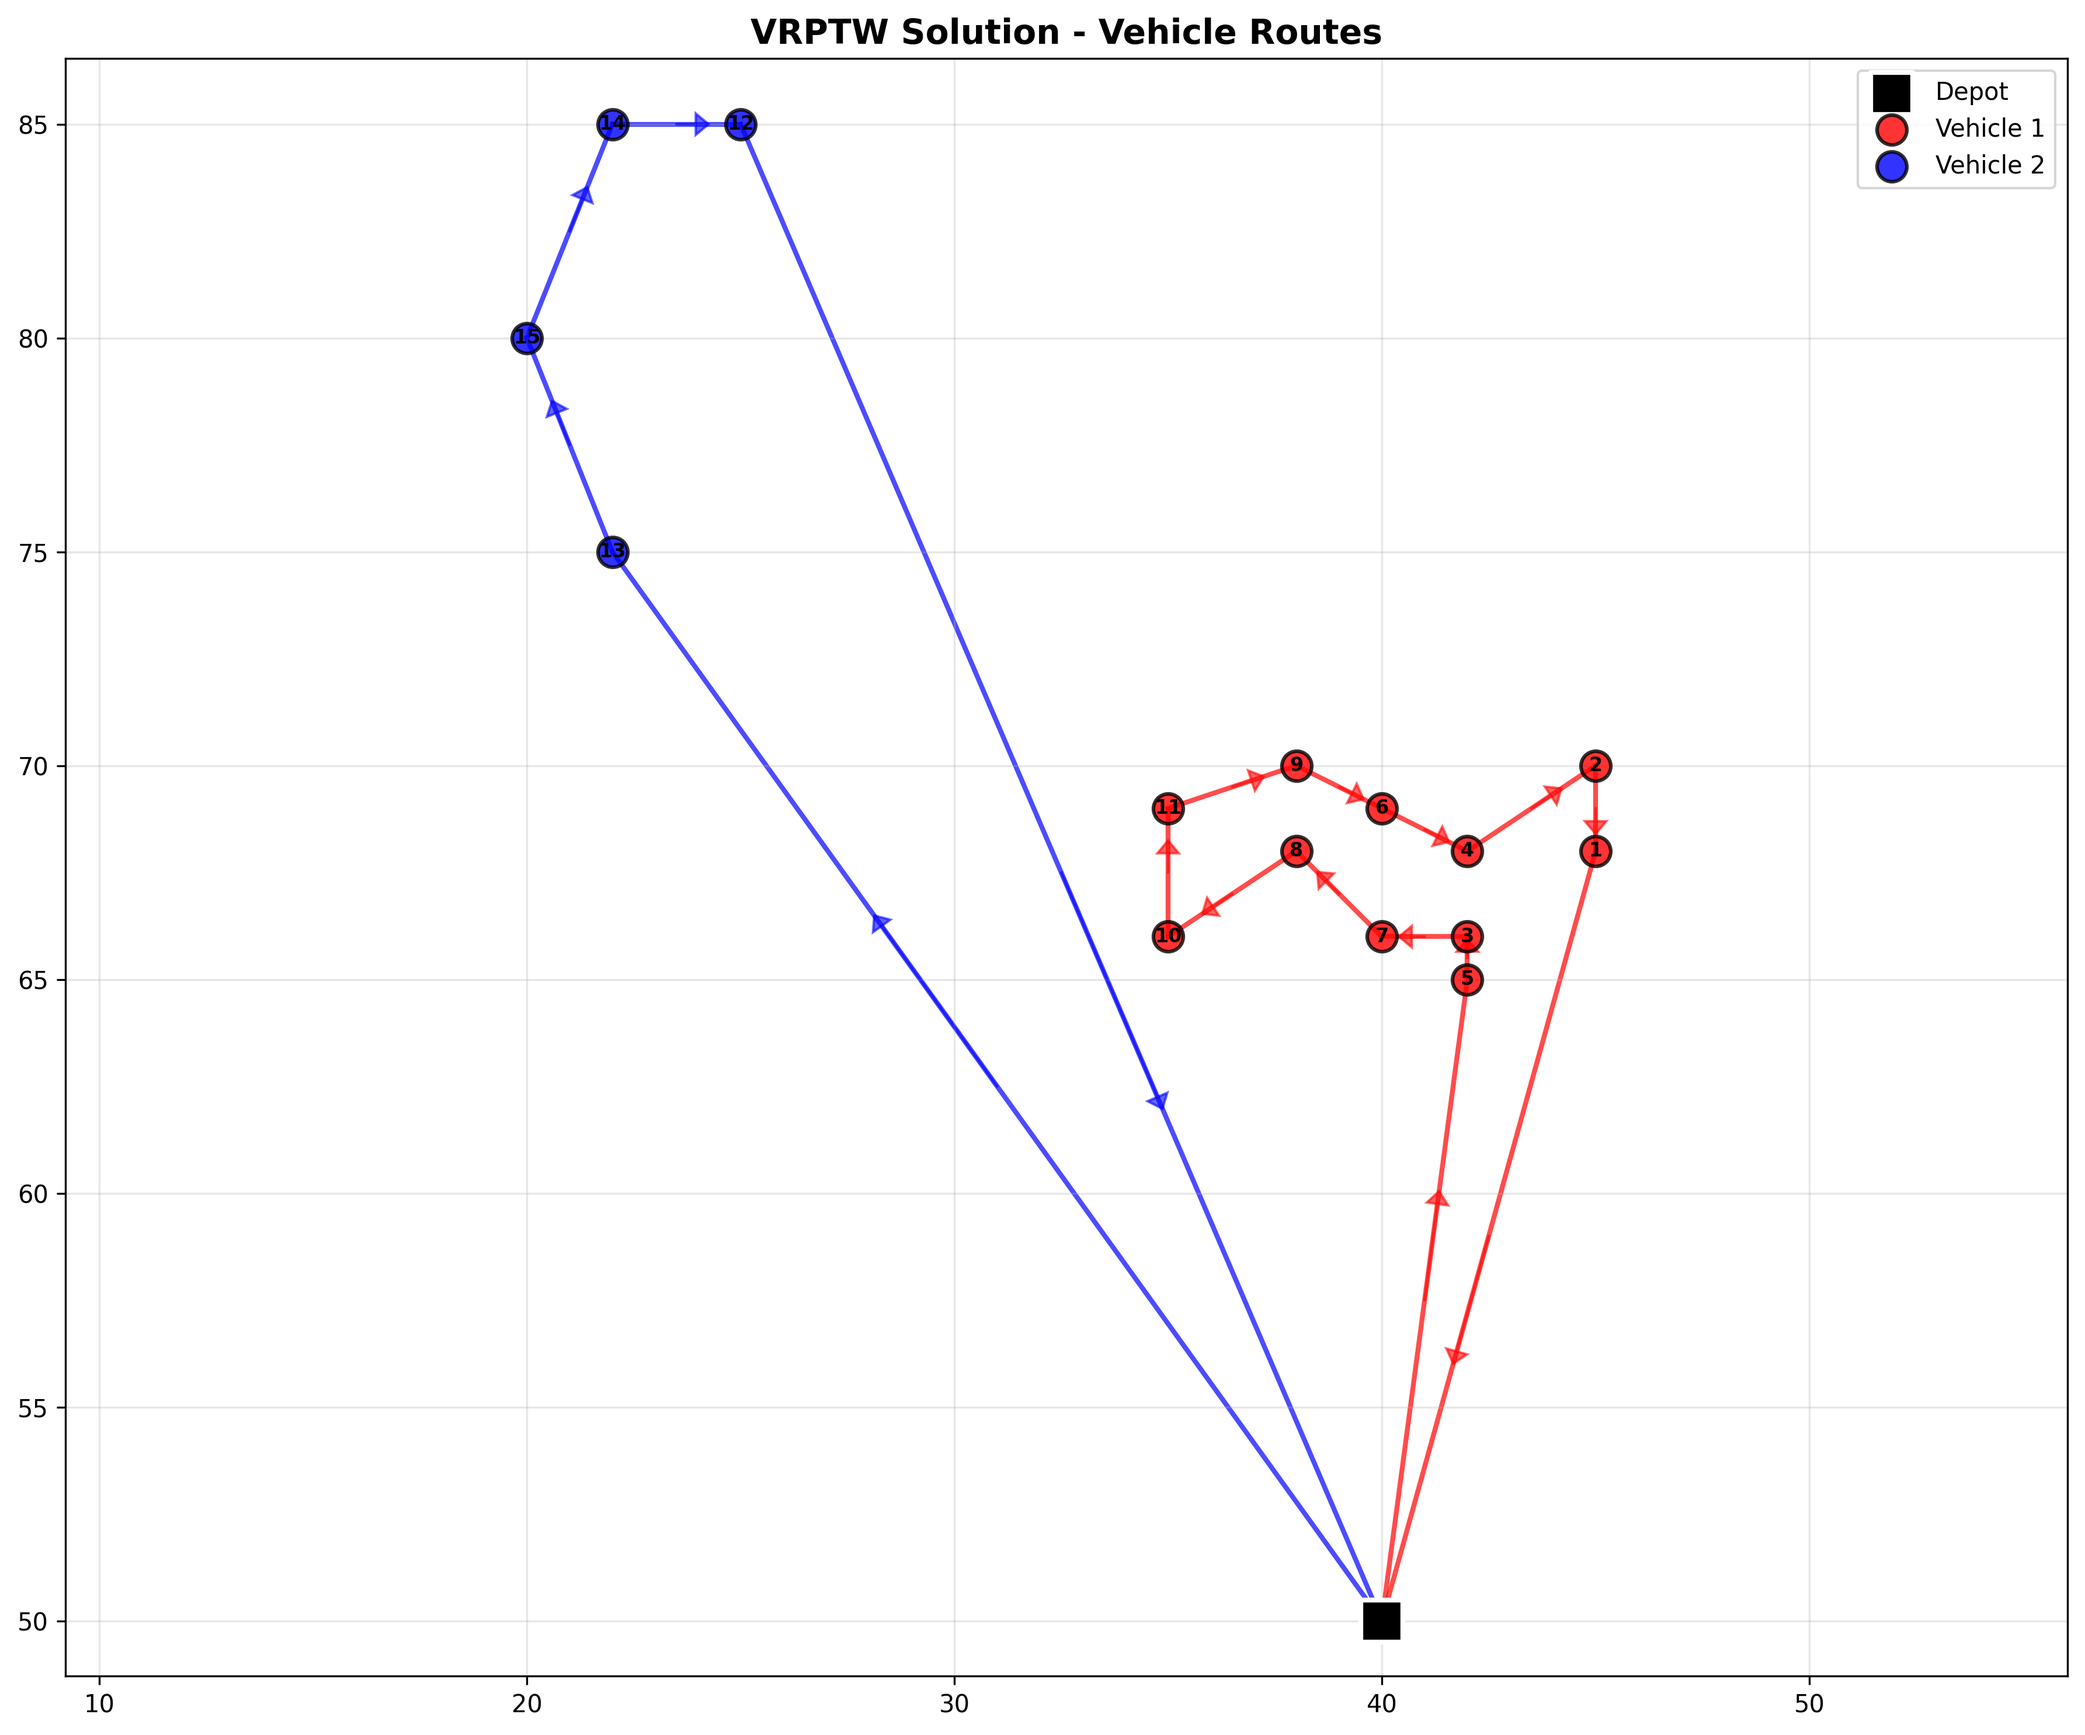
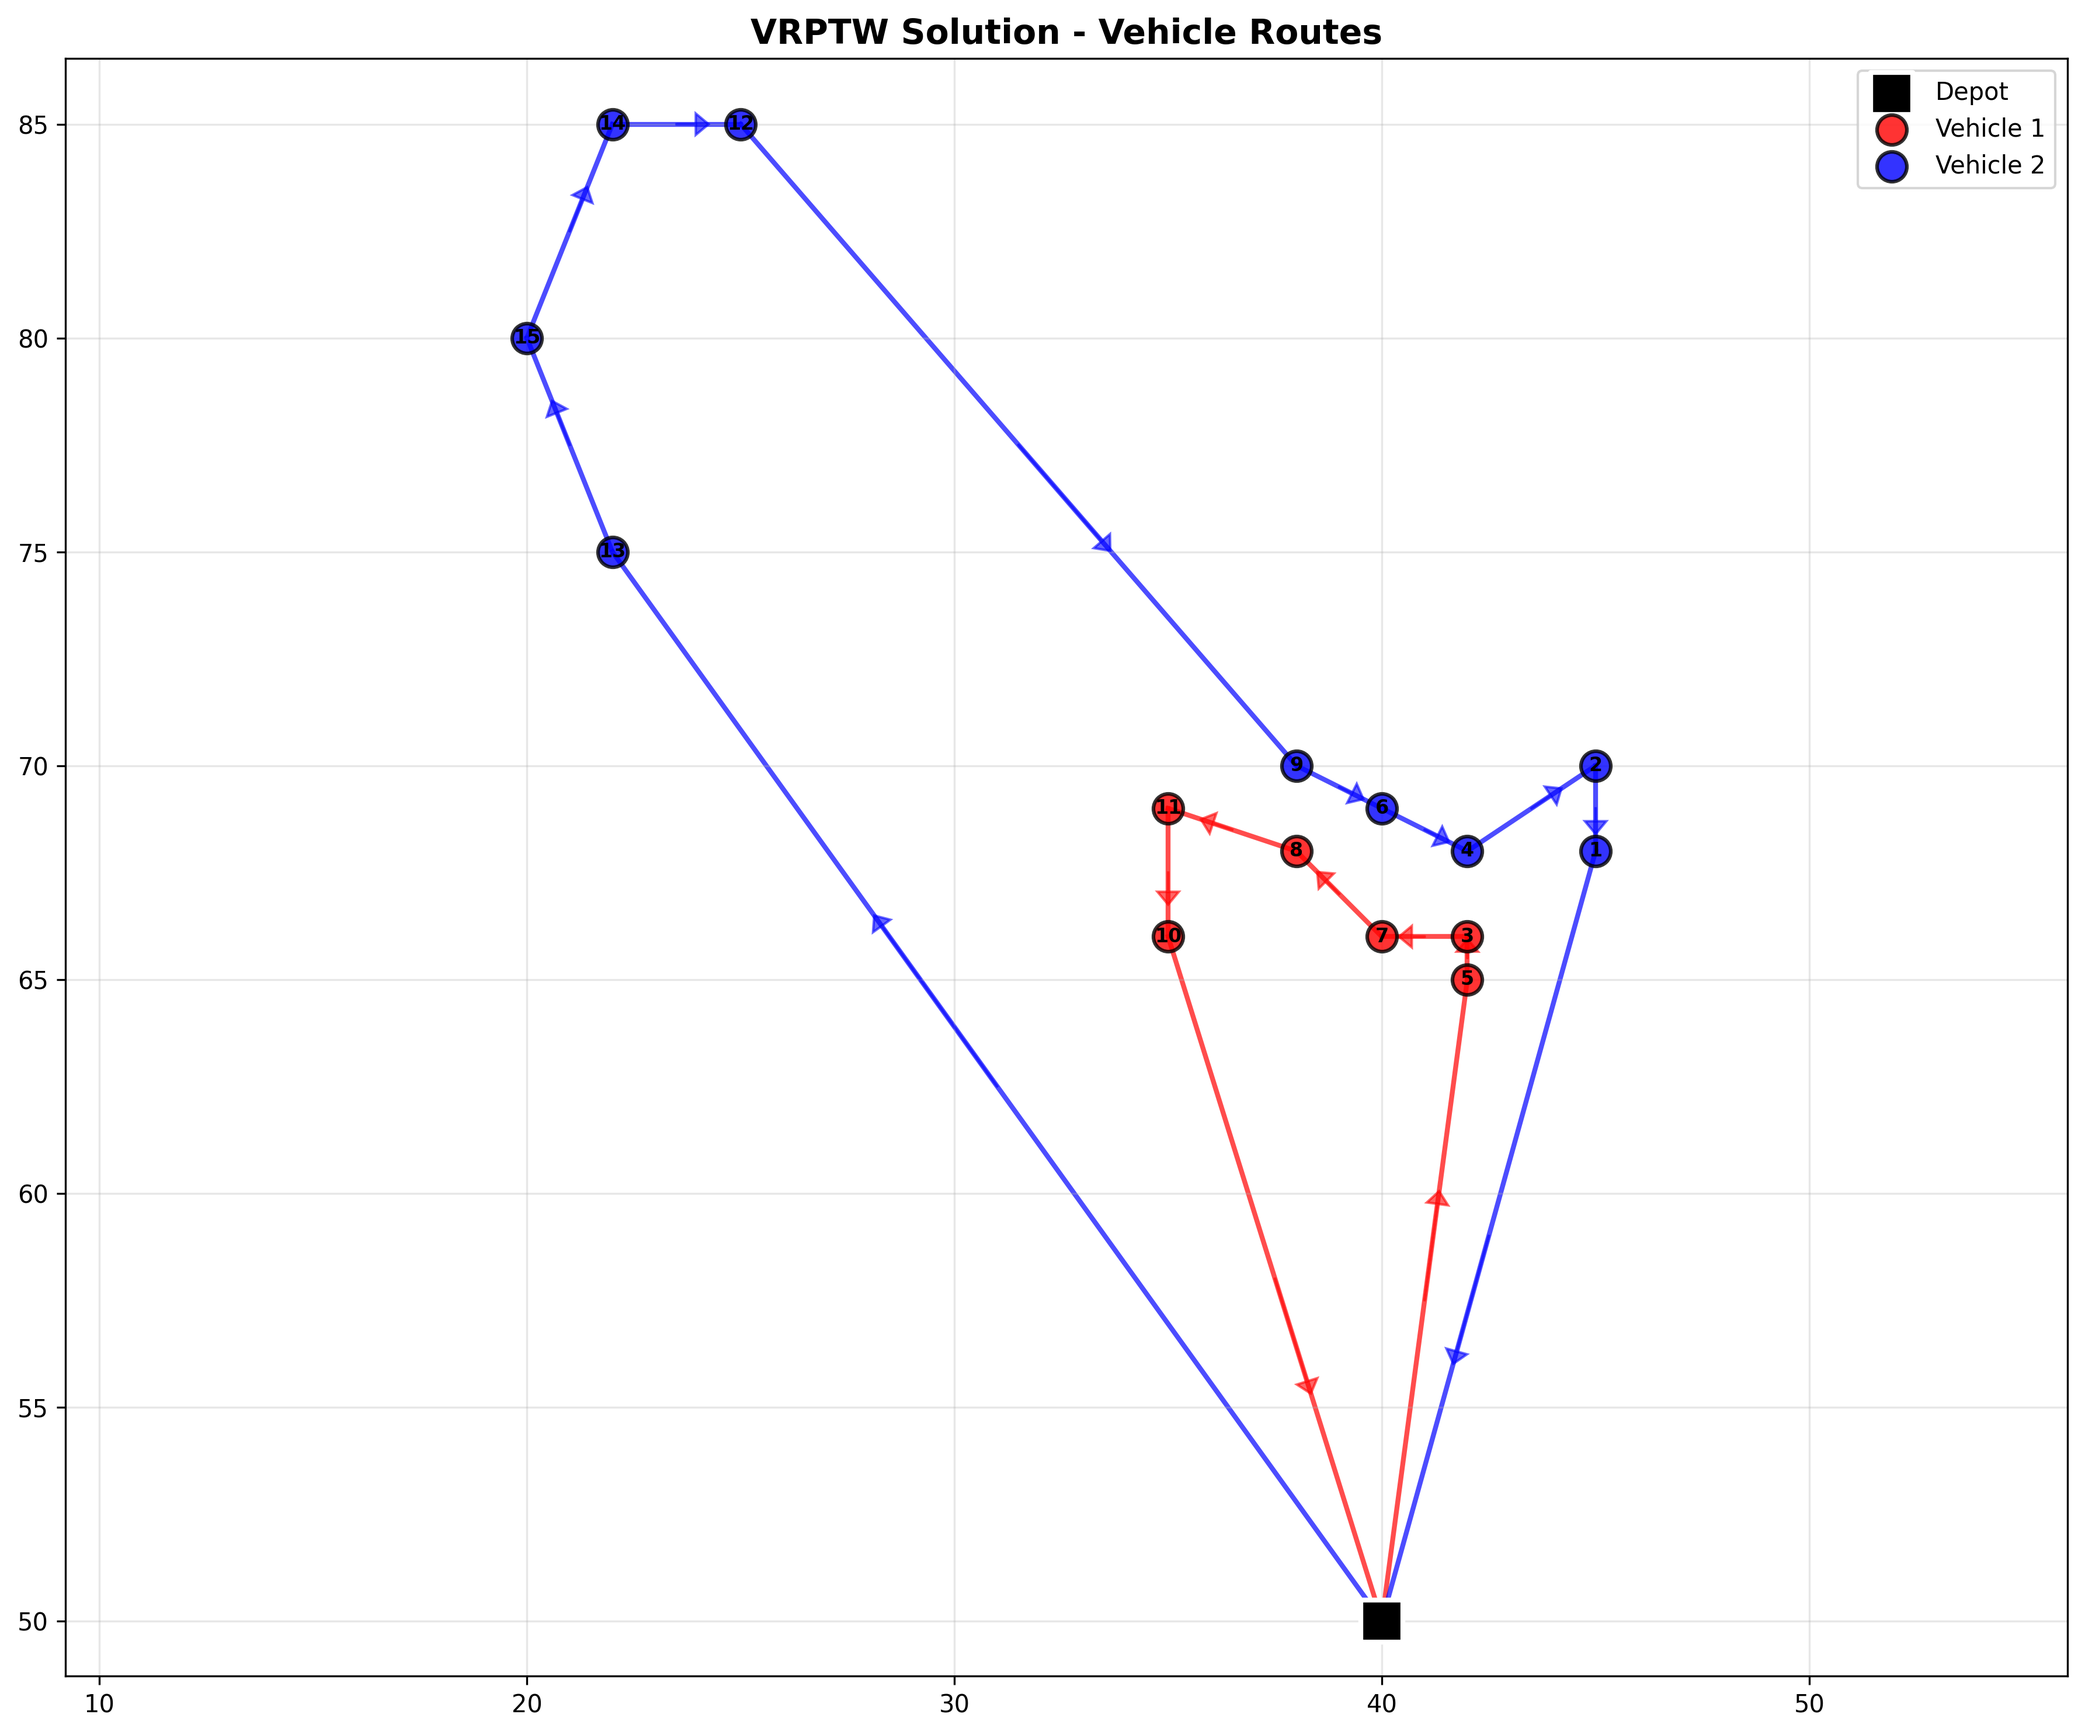
time_windowtradeoff

diff --git a/Aone.py b/Aone.py
@@ -5,7 +5,7 @@ from gurobipy import GRB
 import time
 from itertools import combinations
 import matplotlib.pyplot as plt
-
+import os
 
 
 def solve_tsp_mtz(df_nodes, n_customers, time_limit):
@@ -602,6 +602,104 @@ def analyze_vehicle_tradeoff(df_nodes, df_requests, df_Fleet, n_customers, vehic
     return df_tradeoff
 
 
+def modify_time_windows(df_requests, factor):
+    """
+    Modifies time windows by scaling their width around the center point.
+    
+    Args:
+        df_requests: Original requests DataFrame
+        factor: Scaling factor (0.5 = half width, 1.0 = original, 2.0 = double width)
+    
+    Returns:
+        Modified DataFrame with scaled time windows
+    """
+    df_modified = df_requests.copy()
+    
+    for id in df_modified.index:
+        original_start = df_requests.loc[id, 'start']
+        original_end = df_requests.loc[id, 'end']
+        
+        center = (original_start + original_end) / 2
+        half_width = (original_end - original_start) / 2
+        
+        new_half_width = half_width * factor
+        df_modified.loc[id, 'start'] = int(max(0, center - new_half_width))
+        df_modified.loc[id, 'end'] = int(center + new_half_width)
+    
+    return df_modified
+
+
+def analyze_timewindow_tradeoff(df_nodes, df_requests, df_Fleet, n_customers, window_factors, time_limit=600):
+
+    results = []
+    
+    
+    for factor in window_factors:
+        
+        df_requests_modified = modify_time_windows(df_requests, factor)
+        
+        result = solve_vrptw_MTZ(df_nodes, df_requests_modified, df_Fleet,
+                                n_customers=n_customers,
+                                time_limit=time_limit,
+                                vehicle_cost=0)
+        
+        if result['status'] == 'Optimal':
+            results.append({
+                'Window_Factor': factor,
+                'Num_Vehicles': result['num_vehicles'],
+                'Total_Distance': result['total_distance'],
+                'Objective_Value': result['objective_value'],
+                'Runtime_s': round(result['runtime'], 2),
+                'Status': 'Feasible'
+            })
+        else:
+            results.append({
+                'Window_Factor': factor,
+                'Num_Vehicles': 'N/A',
+                'Total_Distance': 'N/A',
+                'Objective_Value': 'N/A',
+                'Runtime_s': round(result['runtime'], 2),
+                'Status': 'Infeasible'
+            })
+    
+    df_tradeoff = pd.DataFrame(results)
+    plot_timewindow_tradeoff(df_tradeoff, n_customers)
+    
+    return df_tradeoff
+
+
+def plot_timewindow_tradeoff(df_tradeoff, n_customers):
+    """
+    Plots the trade-off between time window width and solution quality.
+    """
+    import os
+    os.makedirs('Plots_timeWindow', exist_ok=True)
+    
+    
+    df_feasible = df_tradeoff[df_tradeoff['Status'] == 'Feasible'].copy()
+    
+    plt.figure(figsize=(10, 7))
+    
+    plt.plot(df_feasible['Window_Factor'], df_feasible['Total_Distance'],
+             'bo-', linewidth=2.5, markersize=12, label='Total Distance')
+    plt.xlabel('Time Window Factor (1.0 = Original Width)', fontsize=13)
+    plt.ylabel('Total Distance', fontsize=13)
+    plt.title(f'Trade-off: Distance vs Time Window Width (n={n_customers})', fontsize=15, fontweight='bold')
+    plt.grid(True, alpha=0.3)
+    plt.axvline(x=1.0, color='red', linestyle='--', alpha=0.5, label='Original')
+    plt.legend(fontsize=11)
+    
+
+    
+    plt.tight_layout()
+    plt.savefig(f'Plots_timeWindow/timewindow_tradeoff_n{n_customers}.png', dpi=300, bbox_inches='tight')
+    plt.close()
+    
+  
+    
+
+
+
 def plot_vehicle_tradeoff(df_tradeoff, n_customers):
     import os
     os.makedirs('Plots', exist_ok=True)
@@ -731,18 +829,35 @@ if __name__ == "__main__":
 
 
     # Analyze vehicle-distance trade-off for different customer counts
-    vehicle_costs = [-100, -50, 0, 10, 20, 50, 100]
+    # vehicle_costs = [-100, -50, 0, 10, 20, 50, 100]
     
-    for n in [5, 10, 15, 20, 25]:
+    # for n in [5, 10, 15, 20, 25]:
         
-        df_tradeoff = analyze_vehicle_tradeoff(df_nodes, df_requests, df_Fleet, 
-                                               n_customers=n, 
-                                               vehicle_costs=vehicle_costs,
-                                               time_limit=600)
+    #     df_tradeoff = analyze_vehicle_tradeoff(df_nodes, df_requests, df_Fleet, 
+    #                                            n_customers=n, 
+    #                                            vehicle_costs=vehicle_costs,
+    #                                            time_limit=600)
         
 
         
-        df_tradeoff.to_csv(f"vehicle_distance_tradeoff_n{n}.csv", index=False)
+    #     df_tradeoff.to_csv(f"vehicle_distance_tradeoff_n{n}.csv", index=False)
+    
+    
+    # Analyze time window width trade-off
+
+    window_factors = [0.25,0.5, 0.75, 1.0, 1.25, 1.5, 2.0,3.0,4.0, 5.0]
+    
+    for n in [5, 10, 15, 20, 25]:
+        df_tw_tradeoff = analyze_timewindow_tradeoff(df_nodes, df_requests, df_Fleet,
+                                                      n_customers=n,
+                                                      window_factors=window_factors,
+                                                      time_limit=600)
+        
+        df_tw_tradeoff.to_csv(f"timewindow_tradeoff_n{n}.csv", index=False)
+        
+        
+
+    
     
 
     
